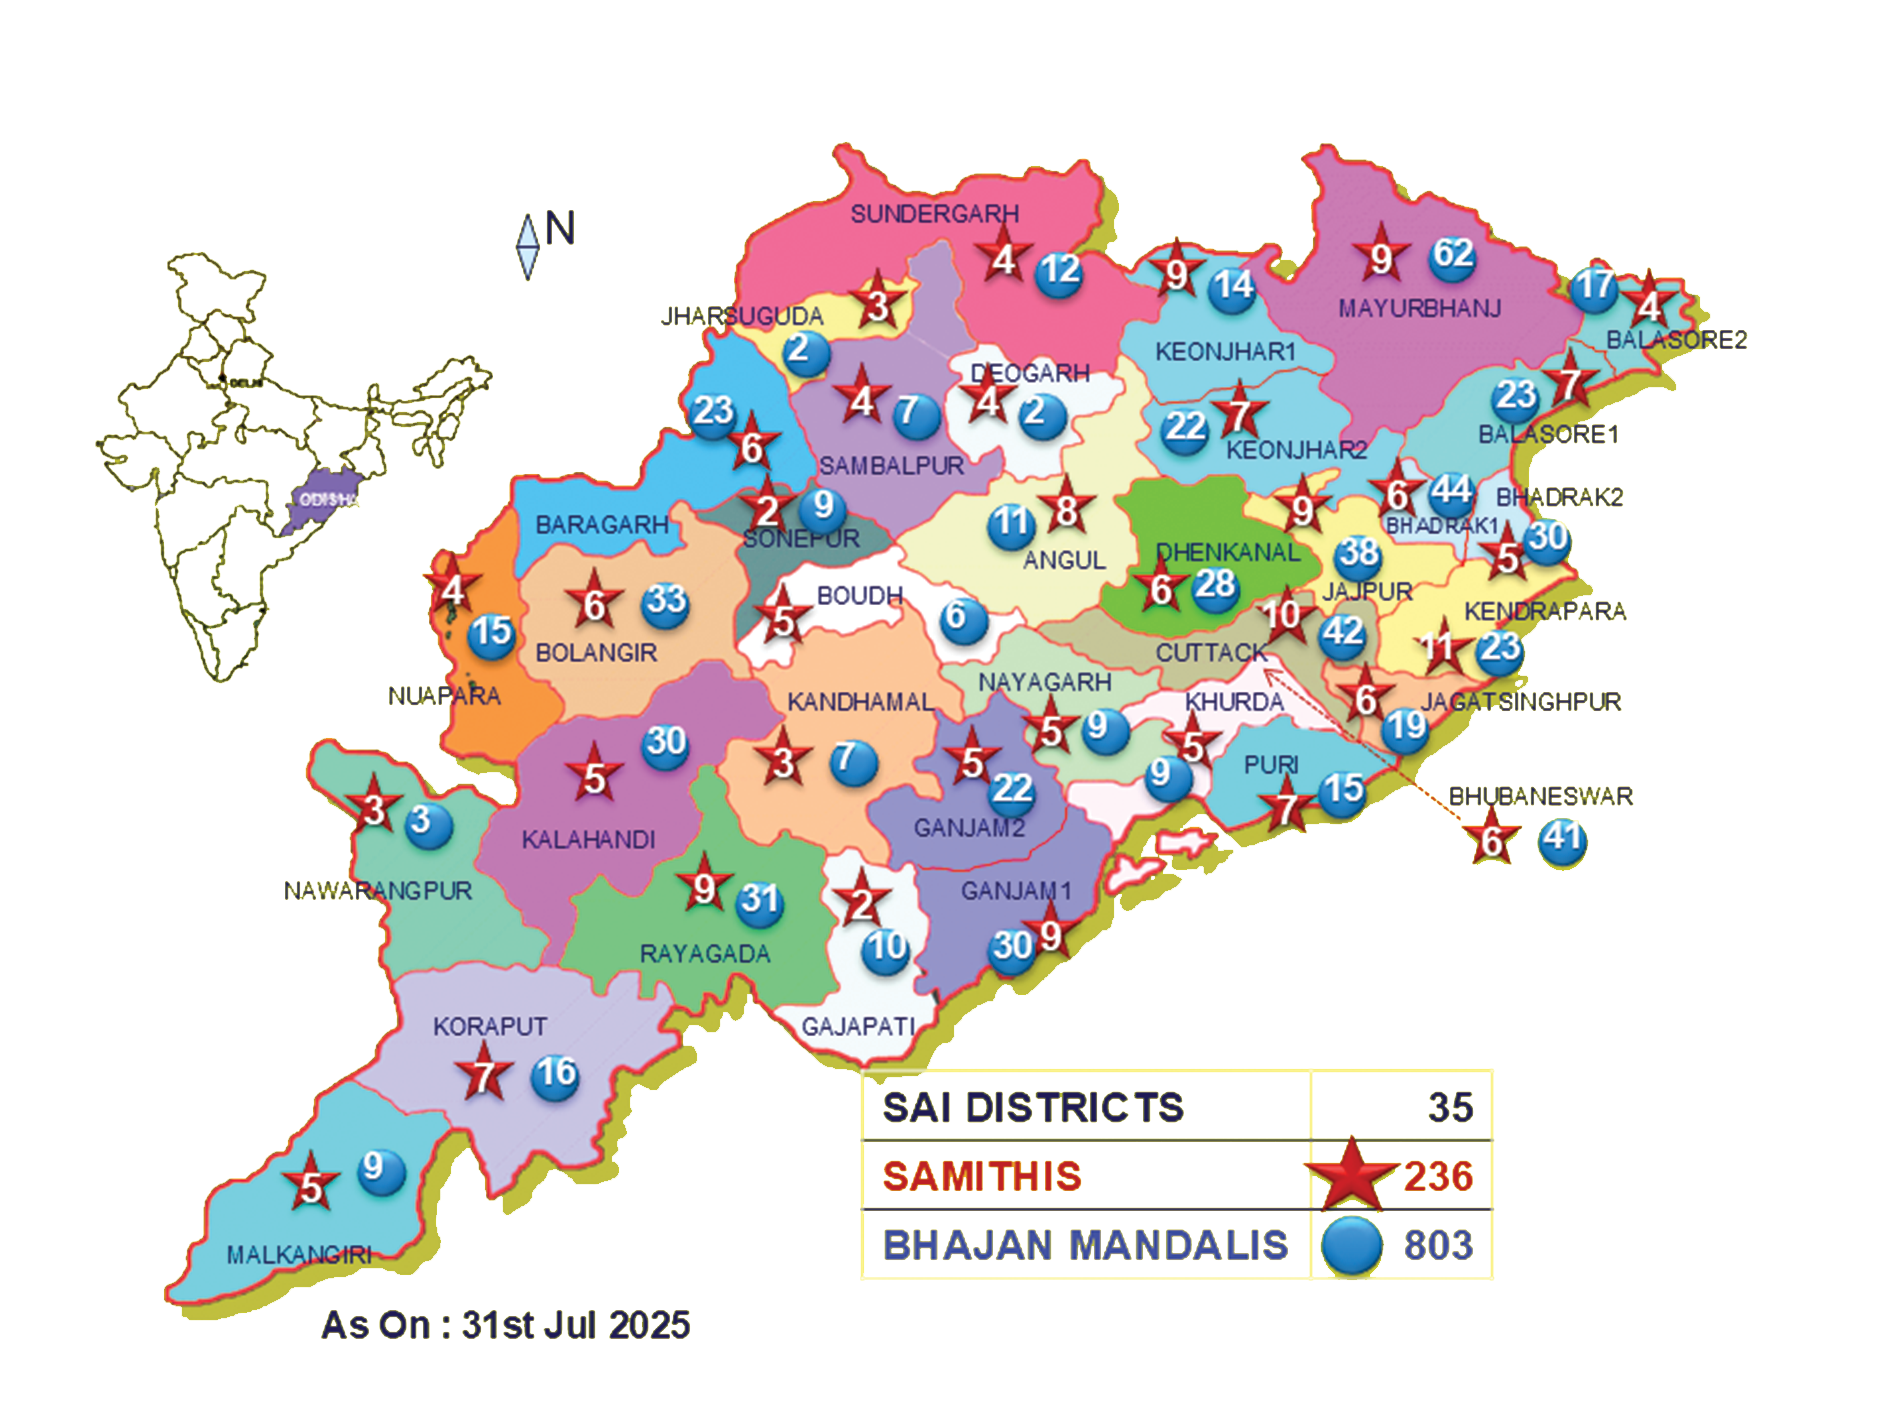
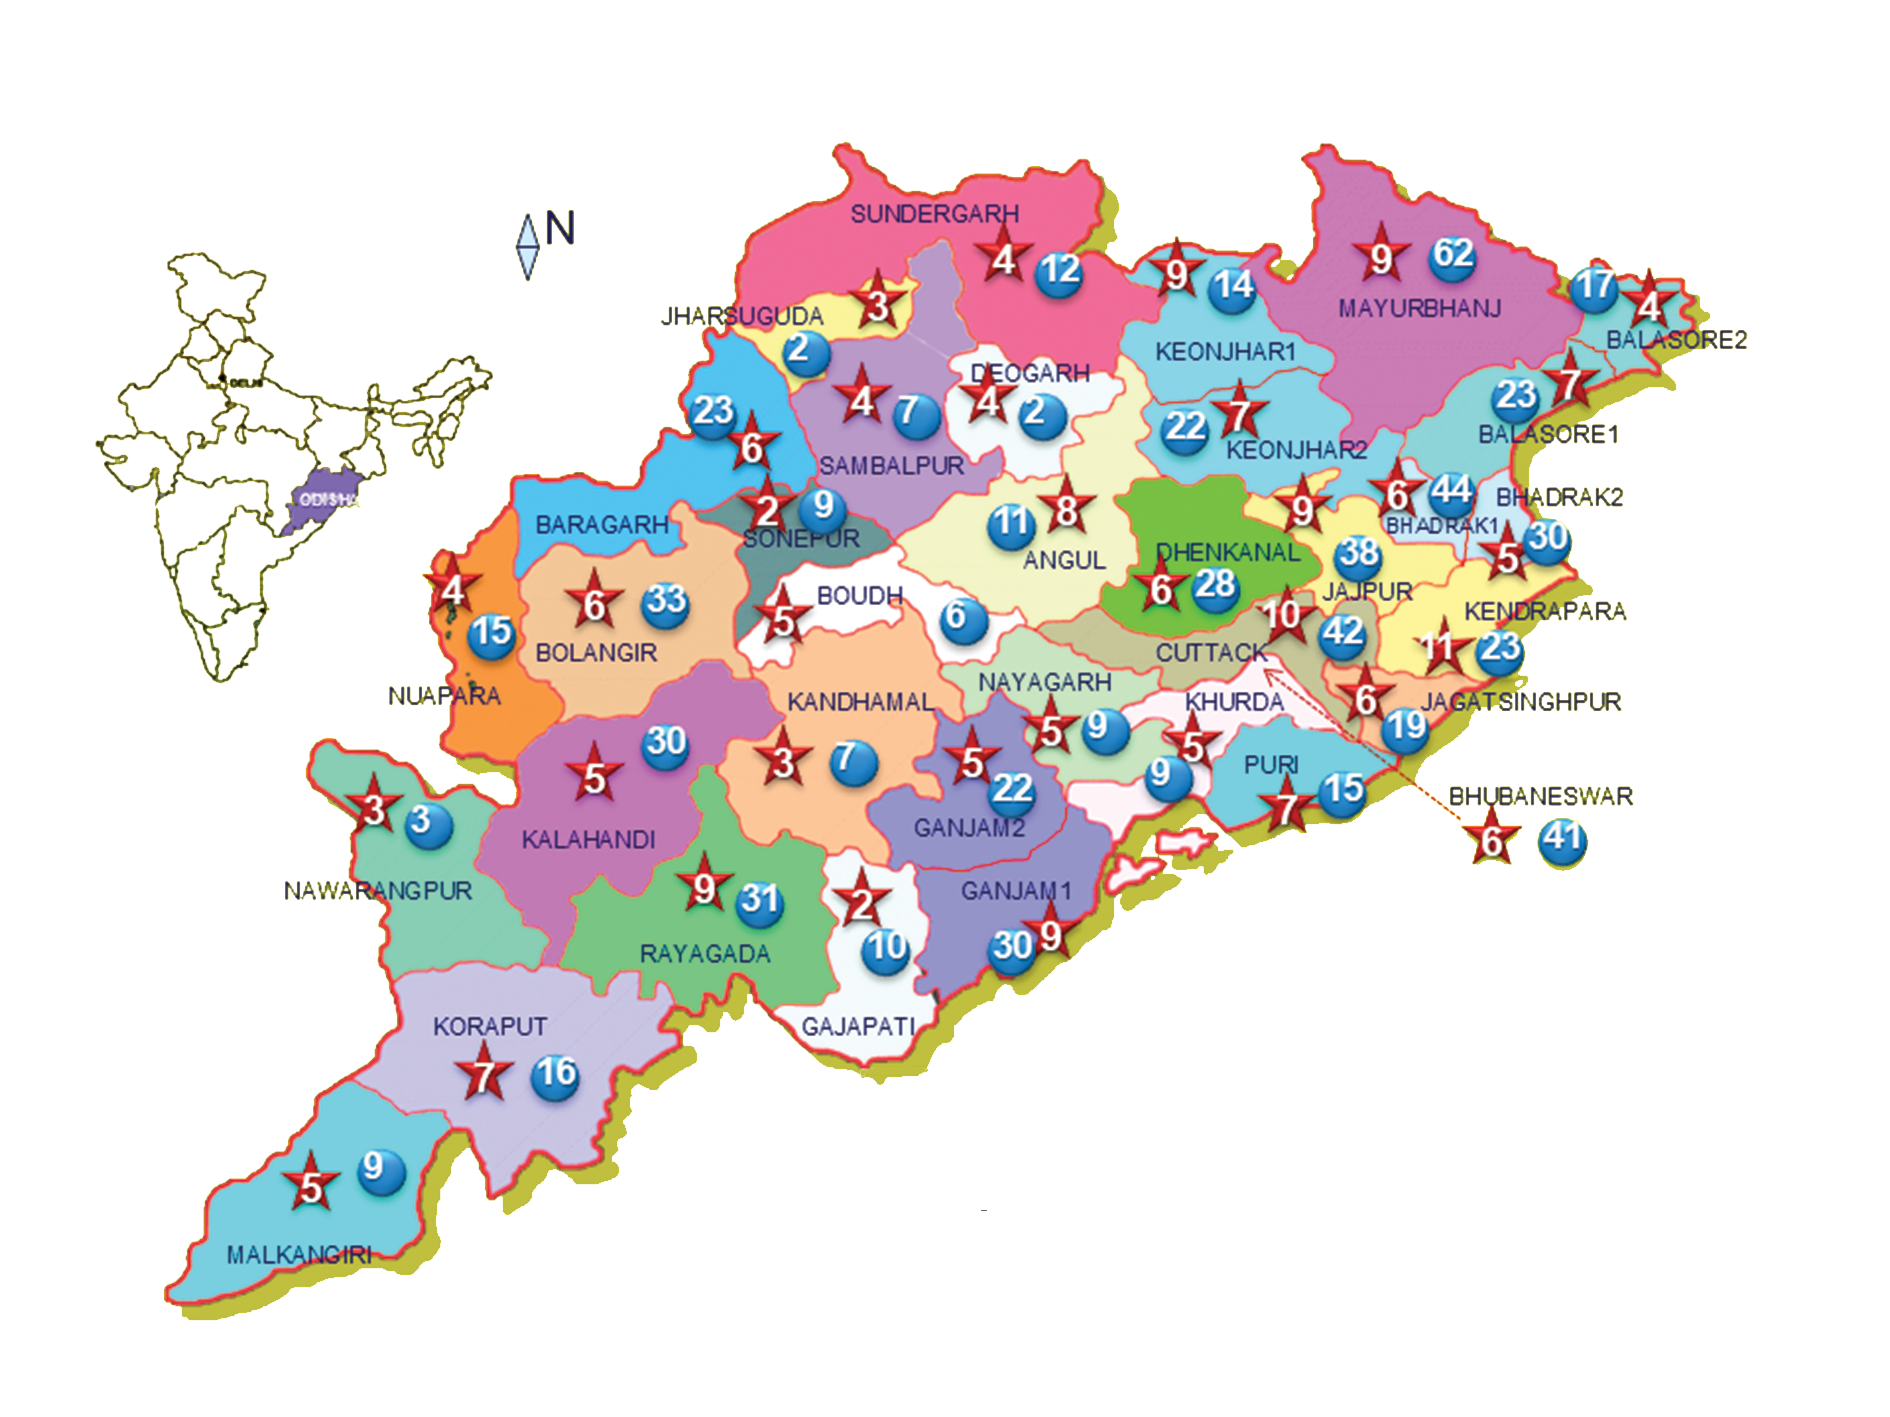
Home odisha image changes

Changed region(s): [[0.437, 0.7452, 0.7804, 0.9005], [0.1561, 0.9005, 0.3746, 0.9626]]

diff --git a/src/app/shared/directives/count-up.directive.ts b/src/app/shared/directives/count-up.directive.ts
@@ -1,0 +1,87 @@
+import { Directive, ElementRef, Input, OnInit, Renderer2 } from '@angular/core';
+import {
+  animationFrameScheduler,
+  BehaviorSubject,
+  combineLatest,
+  switchMap,
+  map,
+  interval,
+  takeWhile,
+  endWith,
+  distinctUntilChanged,
+  takeUntil,
+} from 'rxjs';
+import { Destroy } from './destroy';
+
+/**
+ * Quadratic Ease-Out Function: f(x) = x * (2 - x)
+ */
+const easeOutQuad = (x: number): number => x * (2 - x);
+
+@Directive({
+  selector: '[countUp]',
+  providers: [Destroy],
+})
+export class CountUpDirective implements OnInit {
+  private readonly count$ = new BehaviorSubject(0);
+  private readonly duration$ = new BehaviorSubject(2000);
+
+  private readonly currentCount$ = combineLatest([
+    this.count$,
+    this.duration$,
+  ]).pipe(
+    switchMap(([count, duration]) => {
+      // get the time when animation is triggered
+      const startTime = animationFrameScheduler.now();
+
+      return interval(0, animationFrameScheduler).pipe(
+        // calculate elapsed time
+        map(() => animationFrameScheduler.now() - startTime),
+        // calculate progress
+        map((elapsedTime) => elapsedTime / duration),
+        // complete when progress is greater than 1
+        takeWhile((progress) => progress <= 1),
+        // apply quadratic ease-out
+        // for faster start and slower end of counting
+        map(easeOutQuad),
+        // calculate current count
+        map((progress) => Math.round(progress * count)),
+        // make sure that last emitted value is count
+        endWith(count),
+        distinctUntilChanged()
+      );
+    })
+  );
+
+  @Input('countUp')
+  set count(count: number) {
+    this.count$.next(count);
+  }
+
+  @Input()
+  set duration(duration: number) {
+    this.duration$.next(duration);
+  }
+
+  constructor(
+    private readonly elementRef: ElementRef,
+    private readonly renderer: Renderer2,
+    private readonly destroy$: Destroy
+  ) {}
+
+  ngOnInit(): void {
+    this.displayCurrentCount();
+  }
+
+  private displayCurrentCount(): void {
+    this.currentCount$
+      .pipe(takeUntil(this.destroy$))
+      .subscribe((currentCount) => {
+        this.renderer.setProperty(
+          this.elementRef.nativeElement,
+          'innerHTML',
+          currentCount
+        );
+      });
+  }
+}

diff --git a/src/app/features/home/home.component.html b/src/app/features/home/home.component.html
@@ -31,6 +31,28 @@
     <!-- <div id="ol-map" class="map-container"></div> -->
     <div class="svg_containner">
       <img src="assets/images/odisha-sai-map-Jul2025.png" style="width: 100%" />
+      <div class="row sum_counter">
+        <div class="col-auto sum-counter_title">
+          <div class="sum-counter_value" [countUp]="35" [duration]="2000">
+            +35
+          </div>
+          Sai Districts
+        </div>
+        <div class="col-auto sum-counter_title">
+          <div class="sum-counter_value" [countUp]="774" [duration]="2000">
+            +774
+          </div>
+          Bhajan Mandalis
+        </div>
+        <div class="col-auto sum-counter_title">
+          <div
+            class="sum-counter_value"
+            [countUp]="242"
+            [duration]="2000"
+          ></div>
+          Seva Samithis
+        </div>
+      </div>
     </div>
     <div class="svg_containner" style="display: none">
       <svg

diff --git a/src/app/shared/shared.module.ts b/src/app/shared/shared.module.ts
@@ -12,6 +12,7 @@ import { SlideShowTextComponent } from './components/slideshow_text/slideshowtex
 import { BreadcrumbComponent } from './components/breadcrumb.component';
 import { SubSectionComponent } from './components/page_sub_sections';
 import { CarouselComponent } from './components/carousel.component';
+import { CountUpDirective } from './directives/count-up.directive';
 import { MatCardModule } from '@angular/material/card';
 import { MatGridListModule } from '@angular/material/grid-list';
 
@@ -32,6 +33,7 @@ import { MatGridListModule } from '@angular/material/grid-list';
     MatCardModule,
     MatGridListModule,
     CarouselComponent,
+    CountUpDirective,
   ],
   declarations: [],
   exports: [
@@ -48,6 +50,7 @@ import { MatGridListModule } from '@angular/material/grid-list';
     MatCardModule,
     MatGridListModule,
     CarouselComponent,
+    CountUpDirective,
   ],
 })
 export class SharedModule {}

diff --git a/src/app/shared/directives/destroy.ts b/src/app/shared/directives/destroy.ts
@@ -1,0 +1,16 @@
+import { Injectable, OnDestroy } from '@angular/core';
+import { Observable, ReplaySubject } from 'rxjs';
+
+@Injectable()
+export class Destroy extends Observable<void> implements OnDestroy {
+  private readonly destroySubject$ = new ReplaySubject<void>(1);
+
+  constructor() {
+    super((subscriber) => this.destroySubject$.subscribe(subscriber));
+  }
+
+  ngOnDestroy(): void {
+    this.destroySubject$.next();
+    this.destroySubject$.complete();
+  }
+}

diff --git a/src/styles.scss b/src/styles.scss
@@ -17,6 +17,27 @@ body {
   }
 }
 
+.sum-counter_title {
+  font-size: 14px;
+  line-height: 1.75;
+  font-weight: 700;
+  text-transform: uppercase;
+}
+
+.sum-counter_value {
+  color: #FFAC00;
+  font-size: 48px;
+  line-height: 1;
+  font-weight: 700;
+  justify-content: center;
+}
+
+.sum_counter {
+  position: absolute;
+  right: 15%;
+  bottom: 15%;
+}
+
 .homeCarousel {
   position: relative;
   margin-top: -158px;

diff --git a/src/app/shared/components/footer/footer.component.html b/src/app/shared/components/footer/footer.component.html
@@ -50,7 +50,7 @@
     </div>
     <div class="col-xl-1 col-sm-4 footer-button">
       <button class="btn btn-primary">Register</button>
-      <button class="btn btn-outline-dark">Login</button>
+      <button class="btn btn-outline-dark" routerLink="/admin">Login</button>
     </div>
     <div class="col-12">
       <hr />

diff --git a/src/app/shared/components/header/header.component.html b/src/app/shared/components/header/header.component.html
@@ -147,7 +147,7 @@
       </div>
       <div class="col-2 d-none d-lg-block">
         <div class="right-menu">
-          <div class="row">
+          <div class="row d-none">
             <!--div class="col-xl-2">
               <a class="notificationLink">
                 <fa-icon [icon]="bellIcon"></fa-icon>
